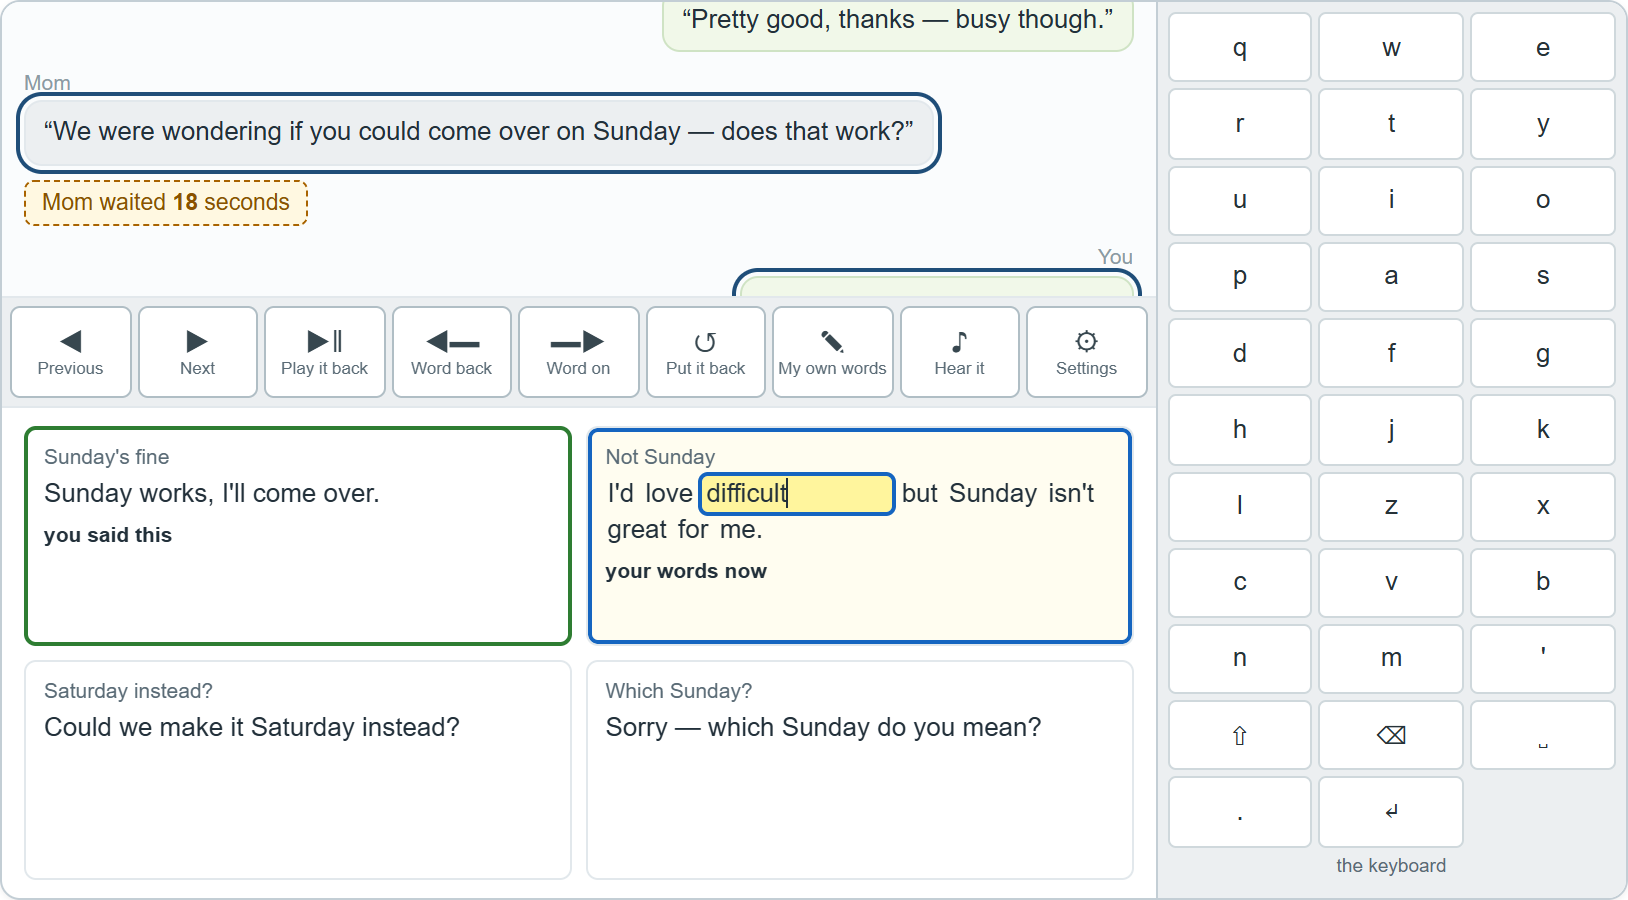
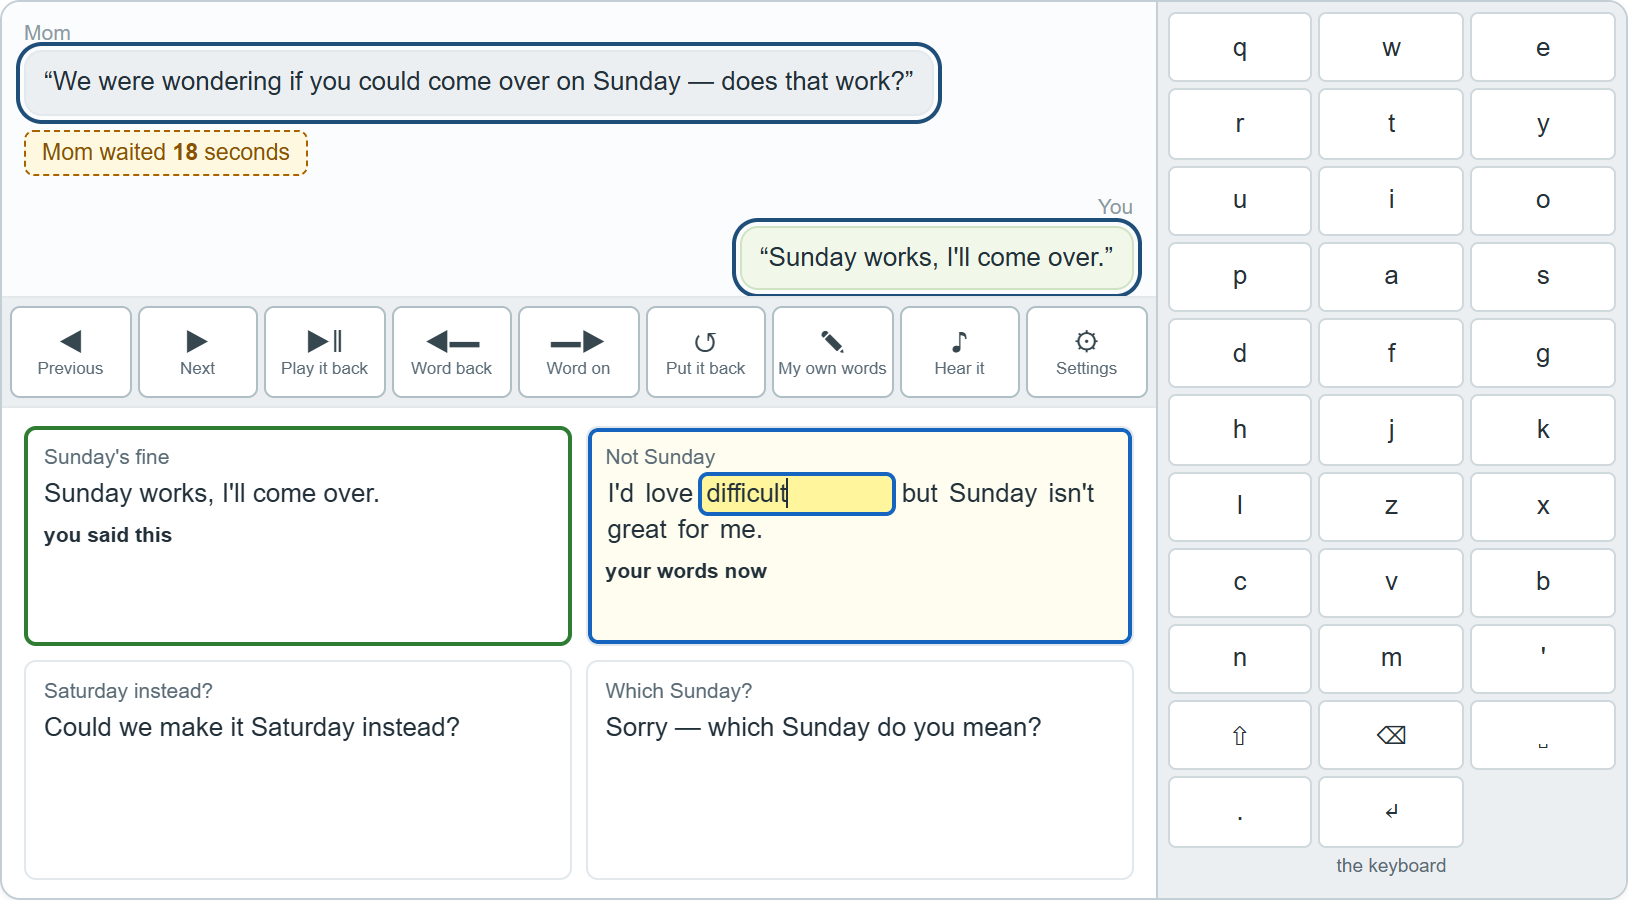
Keep both halves of an exchange in view when the outline moves
Putting the current exchange a third of the way down the pane looked tidy and
cut the user's own reply in half - which reads as a rendering fault rather than
as scrolling. It now scrolls only as far as it has to, and far enough that the
whole exchange is visible.

Found by looking at the captured figure rather than by any check, which is the
argument for capturing figures from the real page: a mock-up would have drawn it
correctly and the app would have kept doing this.

Figures recaptured and the document rebuilt from them.

Changed region(s): [[0.0, 0.0, 0.7064, 0.3422]]

diff --git a/prototypes/conversation-review.html b/prototypes/conversation-review.html
@@ -1038,8 +1038,17 @@ function scrollPaneToCurrent(root){
      offsetTop is a page-level number - it read in the thousands and scrolled the pane to
      the very bottom every time, which looked exactly like the outline being on the wrong
      exchange. */
-  var delta = now.getBoundingClientRect().top - pane.getBoundingClientRect().top;
-  pane.scrollTop = Math.max(0, pane.scrollTop + delta - pane.clientHeight / 3);
+  var marks = root.querySelectorAll('.cnow');
+  var last  = marks[marks.length - 1];
+  var pr    = pane.getBoundingClientRect();
+  var top   = pane.scrollTop + (now.getBoundingClientRect().top - pr.top);
+  var want  = Math.max(0, top - 24);
+  /* both halves of the exchange have to be visible. Putting the first line a third of
+     the way down looked tidy and cut the user's own reply in half, which reads as a
+     rendering fault rather than as scrolling. */
+  var bottom = pane.scrollTop + (last.getBoundingClientRect().bottom - pr.top);
+  if(bottom - want > pane.clientHeight) want = bottom - pane.clientHeight + 10;
+  pane.scrollTop = Math.max(0, Math.min(want, top - 8));
 }
 
 /* ====================== screen 2: moving through it ====================== */
